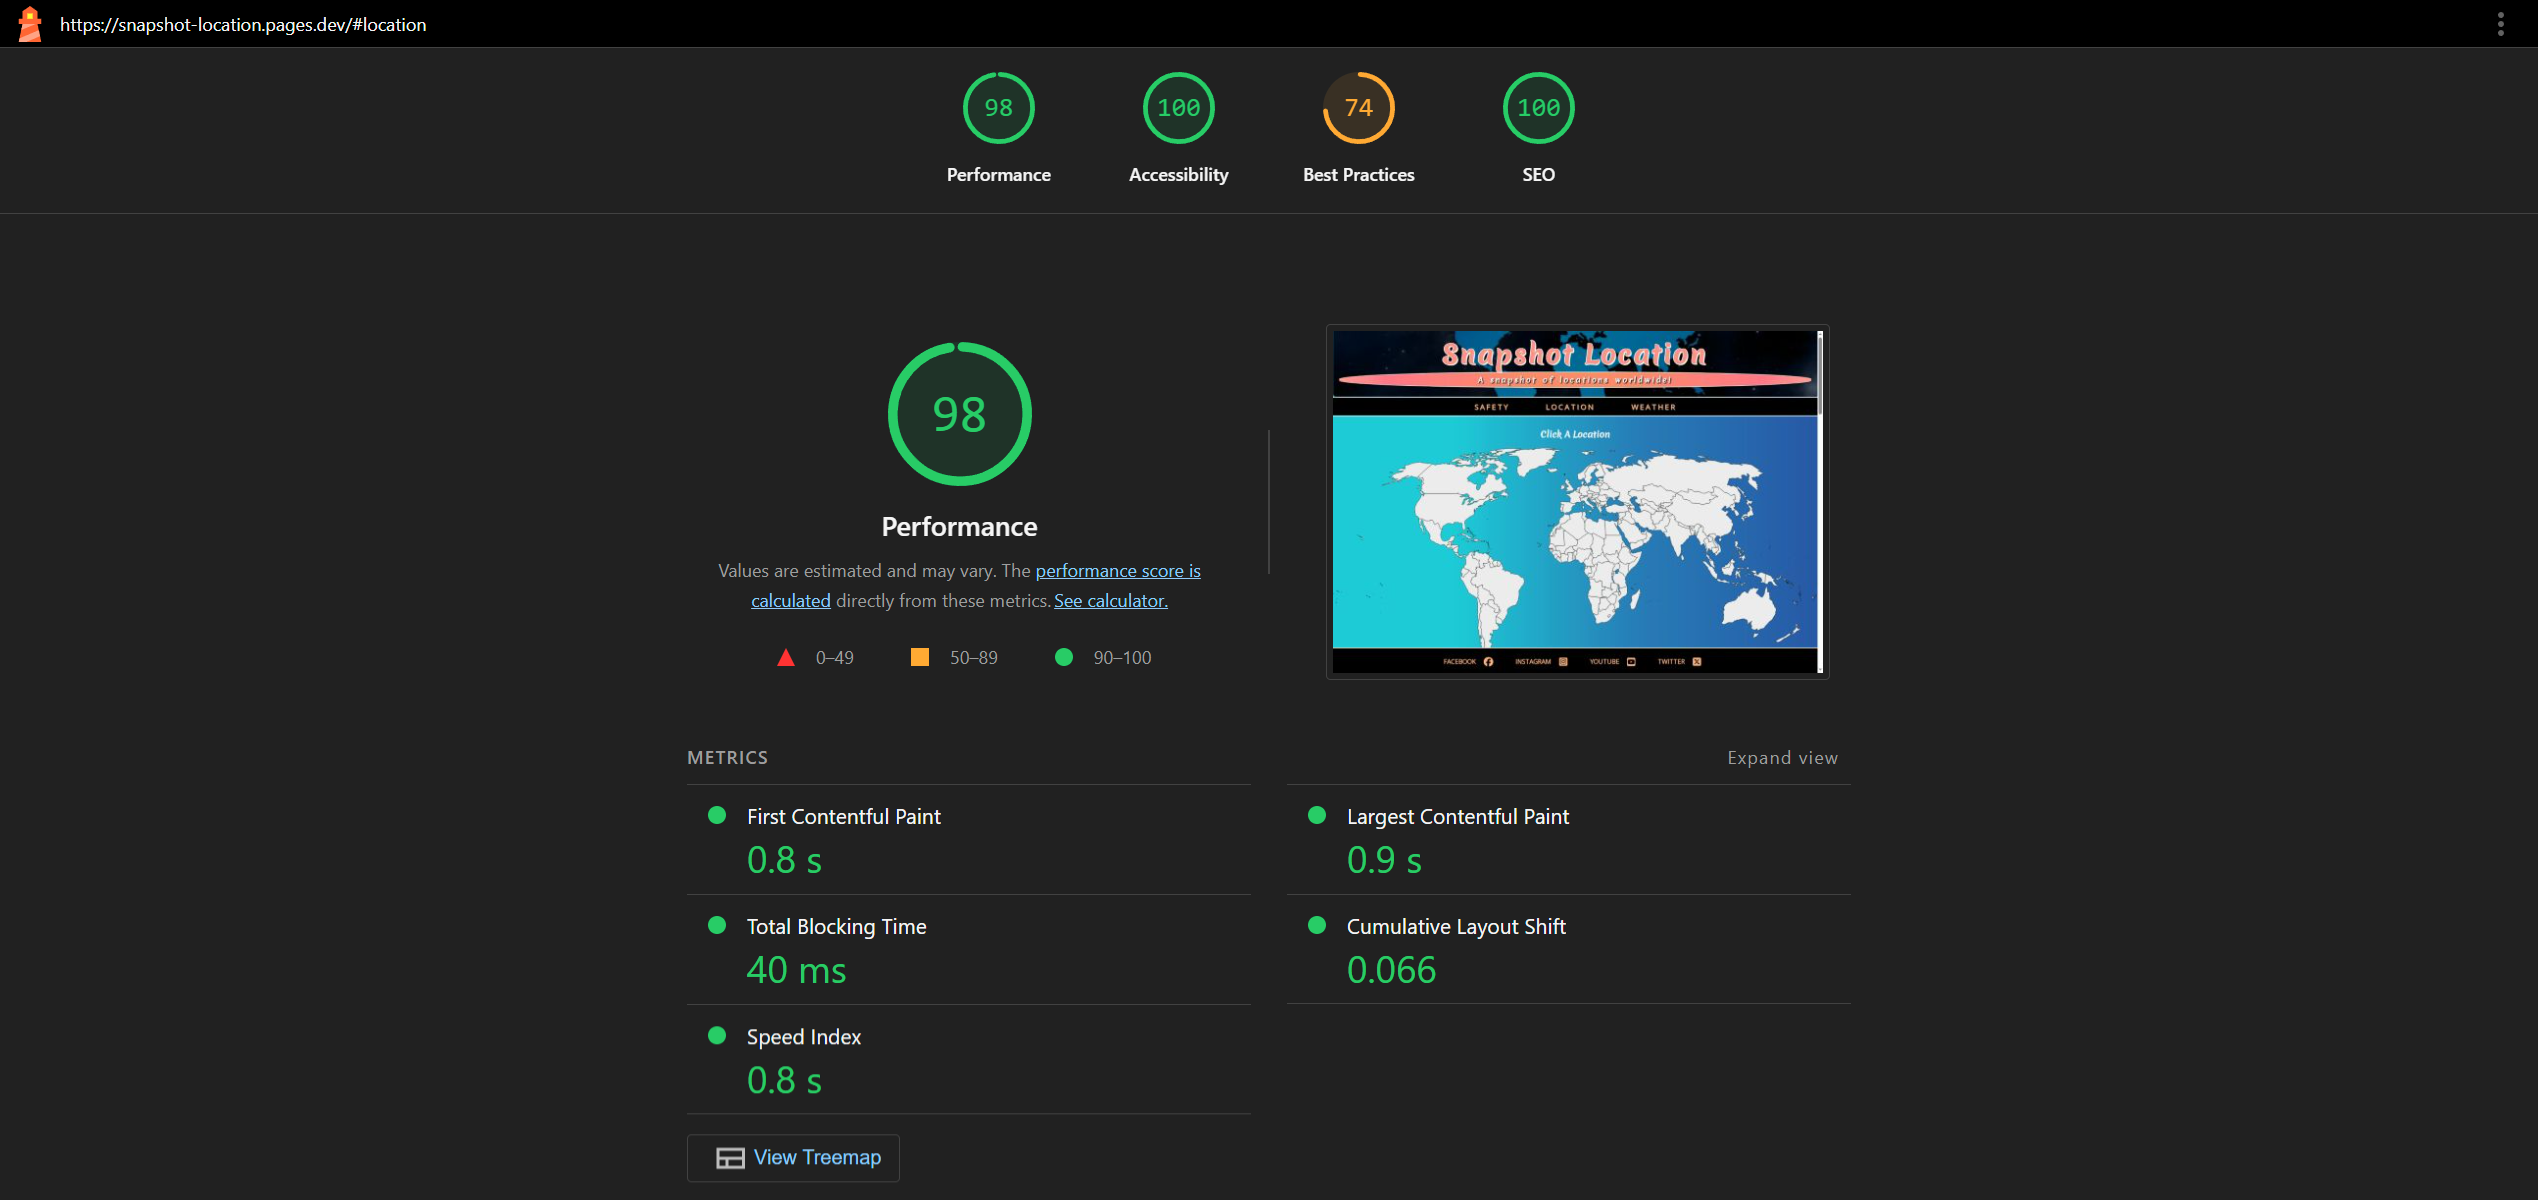
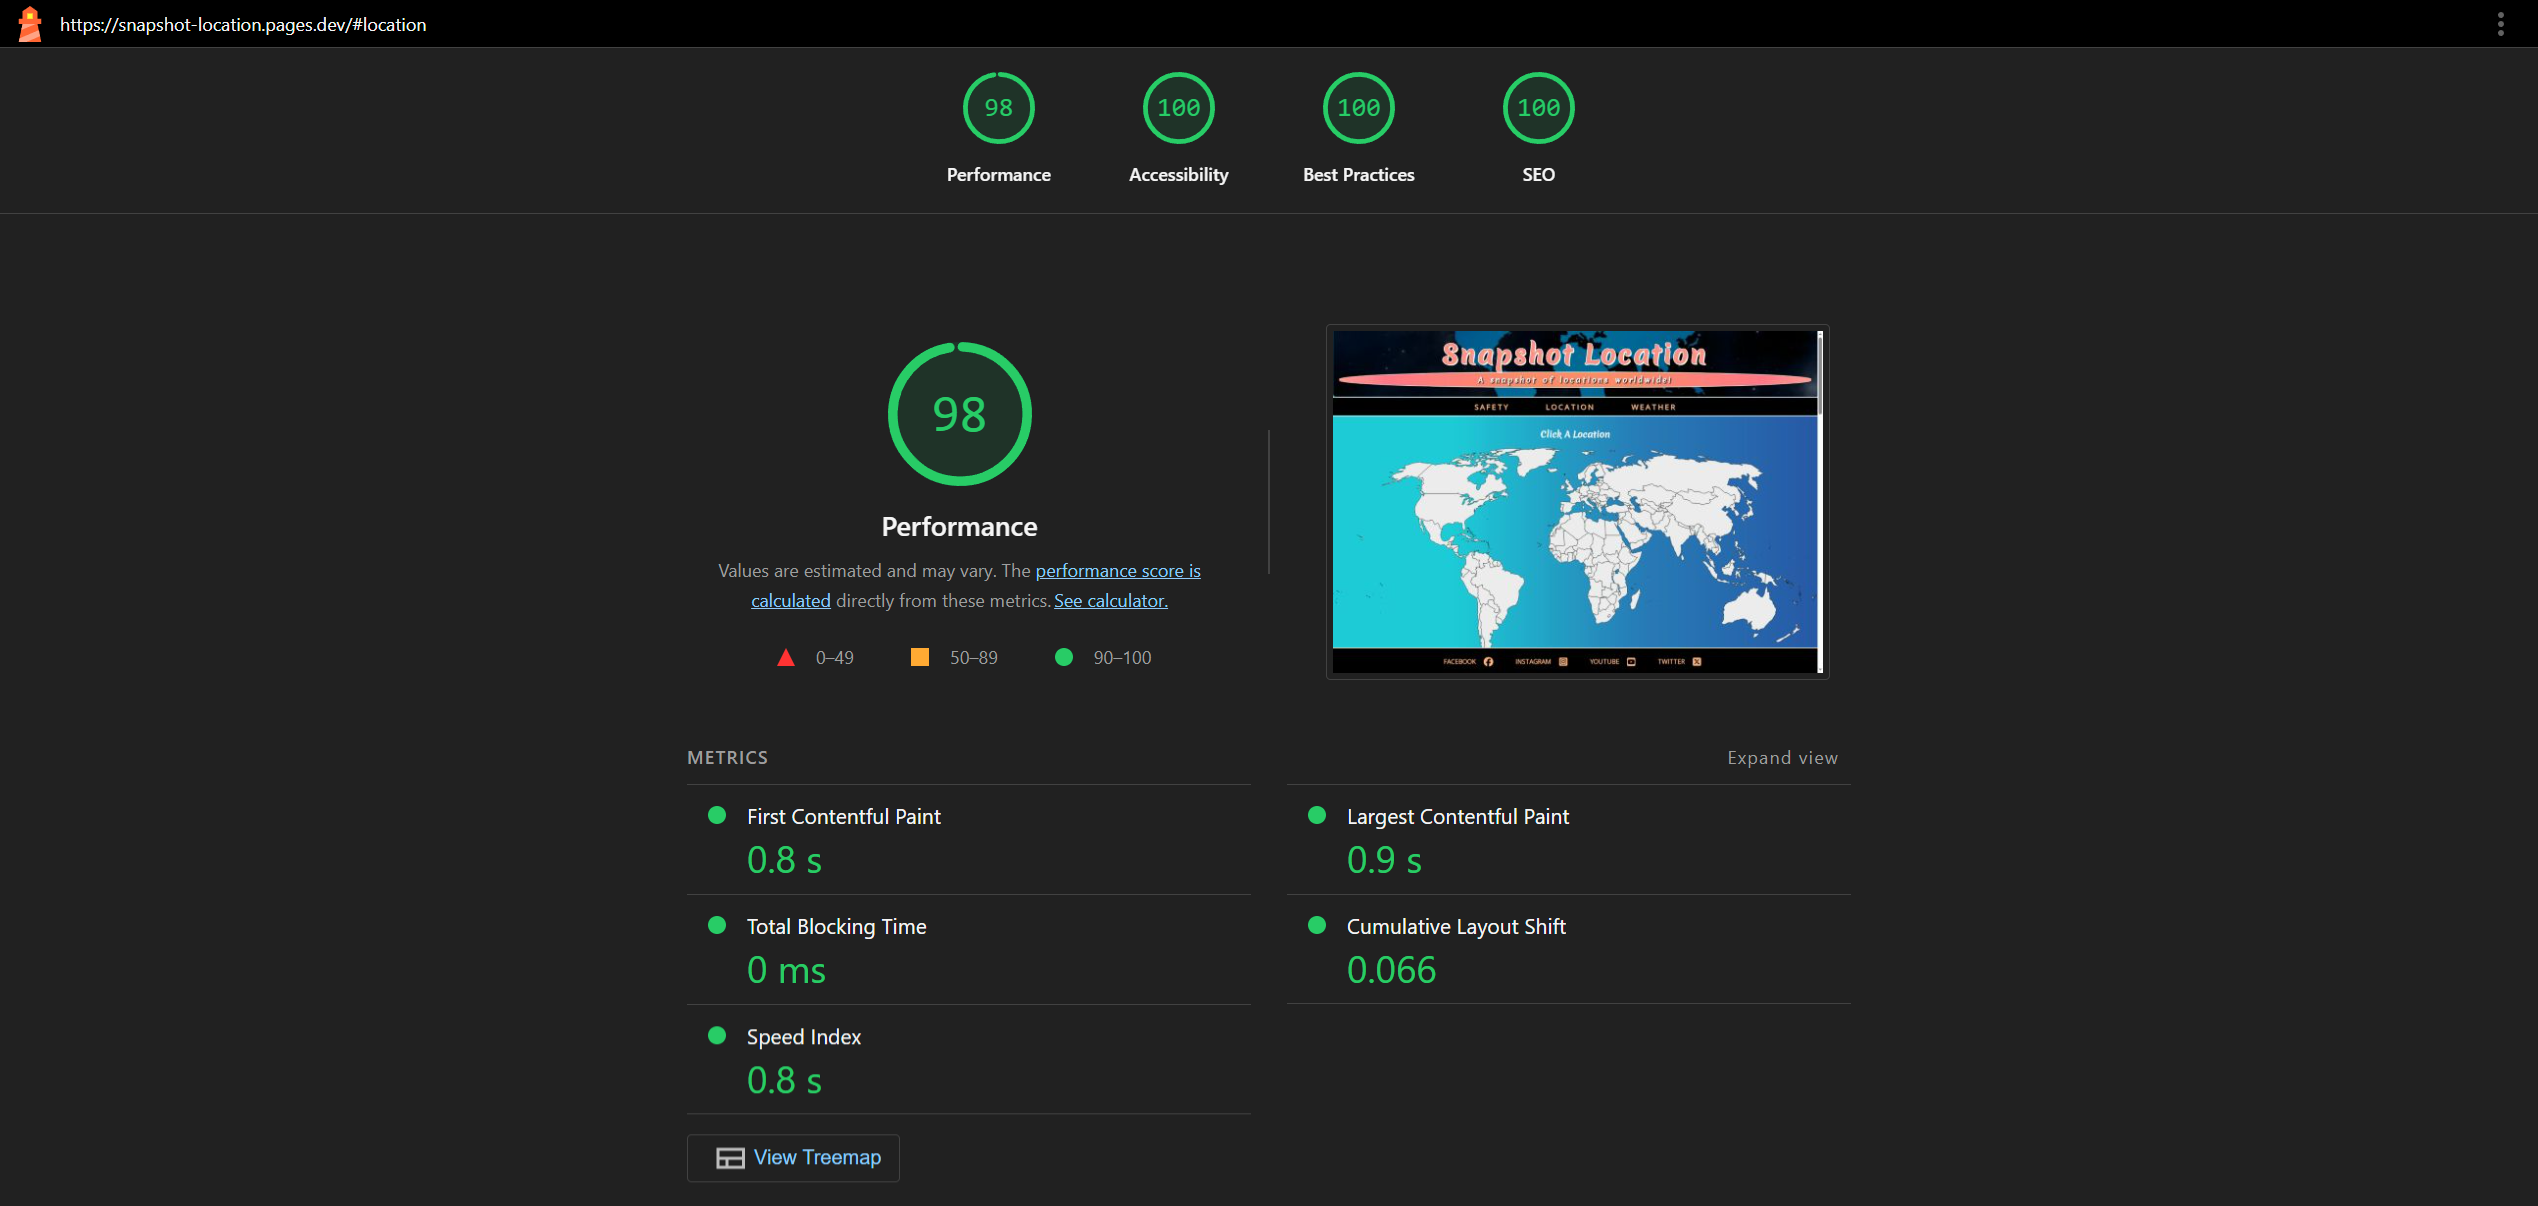
feat:added upadted README

diff --git a/README.md b/README.md
@@ -537,13 +537,13 @@ Overall, I am happy with the speed the site runs on every device I've tried (Var
 
 - ### Desktop Improvements
 
-    - ### Homepage Improvements for Desktop & Mobile:
+    - ### Improvements for Desktop:
   
       - **Best Practices**
 
-      - If I want to improve my *Best Practices* score for the Homepage, I need to rely less on the the third-party Wise fx exchange widget I am using and use one I have developed myself. The reasons for using the Wise one for now are as follows:
+      - If I want to improve my *Best Practices* score for the Homepage, I need to rely less on the the third-party Wise fx exchange widget I am using and use one I have developed myself. I have actually developed my own. The reasons for using the Wise one for now are as follows:
 
-      - The design is pleasing and it is fast.
+      - Their design is more pleasing on the eye and it is faster to load, as it's not relying .
 
       - I c
 
@@ -559,26 +559,6 @@ Overall, I am happy with the speed the site runs on every device I've tried (Var
 
       - Increasing text-size on the Homepage for mobile devices.
    
-    - ### Market Page Improvements
-
-       1. **Best Practices**
-    
-      - If I want to improve my *Best Practices* score for the Market Page, I need to correct the aspect ratio for the images, as per:
-
-      - https://developer.chrome.com/docs/lighthouse/best-practices/image-aspect-ratio/?utm_source=lighthouse&utm_medium=devtools
-
-      - I will weigh up the pros and cons at a future instance.
-
-      2. **Performance**
-
-      - The Market Page loads slowly on Mobile and the *Performance* needs to be improved:
-
-      - Lighthouse recommends the following:
-
-      1. Removing external fonts or embedding them in the HTML
-      2. Saving images in next-gen formats
-      3. Removing javascript iframes
-      4. Eliminating render-blocking resources
 
 ## Browser Compatibility
 
@@ -692,7 +672,14 @@ I also created custom settings for FHD (1920x1080), 2k (2560x1440) & 4K (3840 x 
 
 ### Resolved
 
-1. Images inside my Flexbox code would resize but change aspect ratio. I learnt that by entering max-width and max-height values and setting width and height to auto, this bug could be prevented.
+1. It's not really a bug, but the biggest obstacle I faced to completing this site was the monthly charge I kept incurring for using Google Cloud Services with the Maps Javascript API & Places API: 
+    -   I signed up for a free trial ($300 credit included) and was extremely diligent about checking my daily spend, to ensure I hadn't surpassed my credit limit. Unfortunately the billing amount you see listed is backdated by one day. As I saw the forecasted total bill for the month as £0, I carried on using the services in a dev capacity for the last day of the month, probably doing a further twenty odd city searches. 
+    -   To my horror, two days later I received a bill for £1800. This was owing to my not having restricted which APIs were being triggered during searches and having not set quotas around my potential budget. 
+    -   I would recommend any other devs signing up for Google Cloud Services ensure that they have restricted which APIs / SKUs they are using and set quota limits for each day. 
+    -   I would also recommend that Google Cloud Services create a much a more transparent and intuitive landing page and guide, so that other students and developers do not fall into the same trap.
+    -   Luckily the Google Cloud Services representatives are really kind and really helpful, so they guided me through how to set quotas and restrict APIS and waived my best bill as a goodwill gesture. Hence my thanks to them later in this README. 
+    
+I solved this problem by using OpenStreetMaps, Leaflet, Nominatim and 
 
 2. On smaller devices, my h3 heading would wrap over into the next line or some text would disappear and be replaced with an ellipsis. I learnt that by using the 'white-space: nowrap' css code, I could avoid this happening to my headings.  
 
@@ -707,15 +694,7 @@ I also created custom settings for FHD (1920x1080), 2k (2560x1440) & 4K (3840 x 
 
 1. I have used the free SVG World Map download from Simple Maps (https://simplemaps.com/world). Neither China nor the United States are included unless you buy the fully licensed version for $199. I will likely do this in the future. Until then, China will appear as Taiwan and the United States as the United States Minor Outlying Islands.
 
-2. 
-
-1. Improve Lighthouse Performance score for Market Page on Mobile by making changes including:
-    - Serve images in next-gen formats (Image formats like WebP and AVIF often provide better compression than PNG or JPEG, which means faster downloads and less data consumption.)
-    - Minimize main-thread to reduce the time spent parsing, compiling and executing JS. Delivering smaller JS payloads helps with this
-    - Eliminate render-blocking resources (Resources are blocking the first paint of your page. Consider delivering critical JS/CSS inline and deferring all non-critical JS/styles)
-    - Minify CSS
-
-. Media Queries & Flexbox achieve the same results and align my design exactly as desired on Brave, Firefox, Google Chrome & Microsoft Edge Browsers.
+2. All my APIs are
 
 
 
@@ -790,19 +769,23 @@ By forking the GitHub Repository we make a copy of the original repository on ou
 
 [OpenStreetMaps + Leaflet](https://www.youtube.com/watch?v=vOPr5k_SGVA)
 
--   [Mozilla Developer](https://developer.mozilla.org/en-US/docs/Learn/CSS/CSS_layout/Media_queries): I also had to do a little more research via Mozilla Developer to achieve the exact level of responsiveness I wanted from Media Queries.
+[Javascript Chaining](https://www.youtube.com/@SteveGriffith-Prof3ssorSt3v3): Professor Steve Griffith's tutorials on chaining Javascript functions helped me greatly in understanding how to chain all the different APIs I was using together.
 
--   [W3 Docs](https://www.w3docs.com/snippets/html/how-to-create-an-anchor-link-to-jump-to-a-specific-part-of-a-page.html): W3 Docs gave me the knowledge to link to a specific section of the same page on another page.
+-   [Mozilla Developer](https://developer.mozilla.org/en-US/docs/Learn/CSS/CSS_layout/Media_queries): Mozilla Developer helped me achieve the exact level of responsiveness I wanted from Media Queries.
 
--   [Google's IFrame Player API](https://developers.google.com/youtube/iframe_api_reference): It was through Google's own page that I learnt how to insert and resize their IFrame Player.
+-   [CODECONVEY](https://codeconvey.com/pure-css-coverflow-slider/): I learnt how to create a Pure CSS 3D Coverflow Image Slider at CodeConvey.
 
--   [Free Code Camp](https://www.freecodecamp.org/news/git-revert-commit-how-to-undo-the-last-commit/): Free Code Camp gave me the knowledge to reset or revert the changes of a recent git commit.
+-   [Wise](https://wise.com/gb/business-tools/fx-widget) Wise provided their own widget for the fx exchange, which I have found very easy to implement and use.
 
--   [Stack Overflow](https://stackoverflow.com/questions/12991351/how-to-force-image-resize-and-keep-aspect-ratio): Stack Overflow gave me the knowledge to force an image to resize but retain the aspect ratio.
+-   [Free Code Camp](https://www.freecodecamp.org/news/how-to-build-a-modal-with-javascript/): Free Code Camp gave me the knowledge to create a basic javascript modal.
+
+-   [Stack Overflow](https://stackoverflow.com/questions/27583937/how-can-i-make-a-css-glass-blur-effect-work-for-an-overlay): Stack Overflow gave me the knowledge to create a blurred / frosted glass effect overlay.
 
 -   [Stack Overflow](https://stackoverflow.com/questions/300220/how-to-prevent-text-in-a-table-cell-from-wrapping): Stack Overflow gave me the knowledge to prevent my table text from overflowing. 
 
--   [CSS-TRICKS](https://css-tricks.com/almanac/properties/t/text-underline-position/): CSS-TRICKS gave me the knowledge to set the placement of the underline so it wasn't broken by the text when using the Jomhuria font on the Contact Page.
+-   [CSS-TRICKS](https://css-tricks.com/almanac/properties/t/text-underline-position/): CSS-TRICKS gave me the knowledge to set the placement of the underline so it wasn't obscuring my text in the headlines section.
+
+-   [CSS Script](https://www.cssscript.com/drag-resize-minimize-maximize-close-interactive/): gave me the foundations for incorporating minimize and maximize buttons within a container.
 
 
 ## Content
@@ -815,7 +798,7 @@ By forking the GitHub Repository we make a copy of the original repository on ou
 
 -  All Country Information was kindly provided by REST COUNTRIES [REST COUNTRIES](https://restcountries.com/).
 
--  All City Information was kindly provided by [OpenStreetMap](https://www.openstreetmap.org/), [Overpass](https://wiki.openstreetmap.org/wiki/Overpass_API) & [Leaflet](https://leafletjs.com/).
+-  All City Information was kindly provided by [OpenStreetMap](https://www.openstreetmap.org/), [Overpass](https://wiki.openstreetmap.org/wiki/Overpass_API) [Nominatim](https://nominatim.org/) & [Leaflet](https://leafletjs.com/).
 
 -  All hotel & amenity information was kindly provided by [OpenStreetMap](https://www.openstreetmap.org/), [Overpass](https://wiki.openstreetmap.org/wiki/Overpass_API) & [Leaflet](https://leafletjs.com/).
 
@@ -846,7 +829,7 @@ By forking the GitHub Repository we make a copy of the original repository on ou
 
 -   Thank you to the Reddit community.
 
--   Thank you to all the representatives at Google Cloud, who very kindly walked me through their product range and helped me with unexpected errors and charges. While the services proved prohibitively expensive at this stage of development, the representatives who helped me were some of the most lovely, friendly and articulate mentors I've had the pleasure of meeting.
+-   Thank you to all the representatives at Google Cloud Services, who very kindly walked me through their product range, guided me through restricting APIs, as well as setting quotas, and helped me with the unexpected charges. While the services proved prohibitively expensive at this stage of development, the representatives who helped me were some of the most lovely, friendly and articulate mentors I've had the pleasure of meeting.
 
 
 
